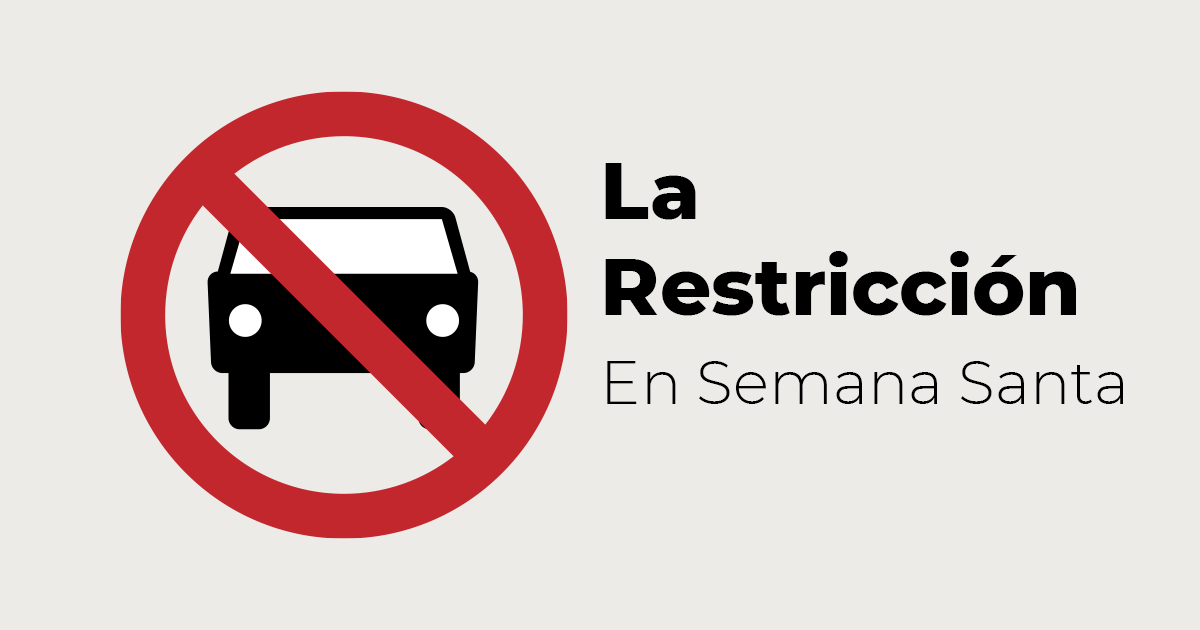
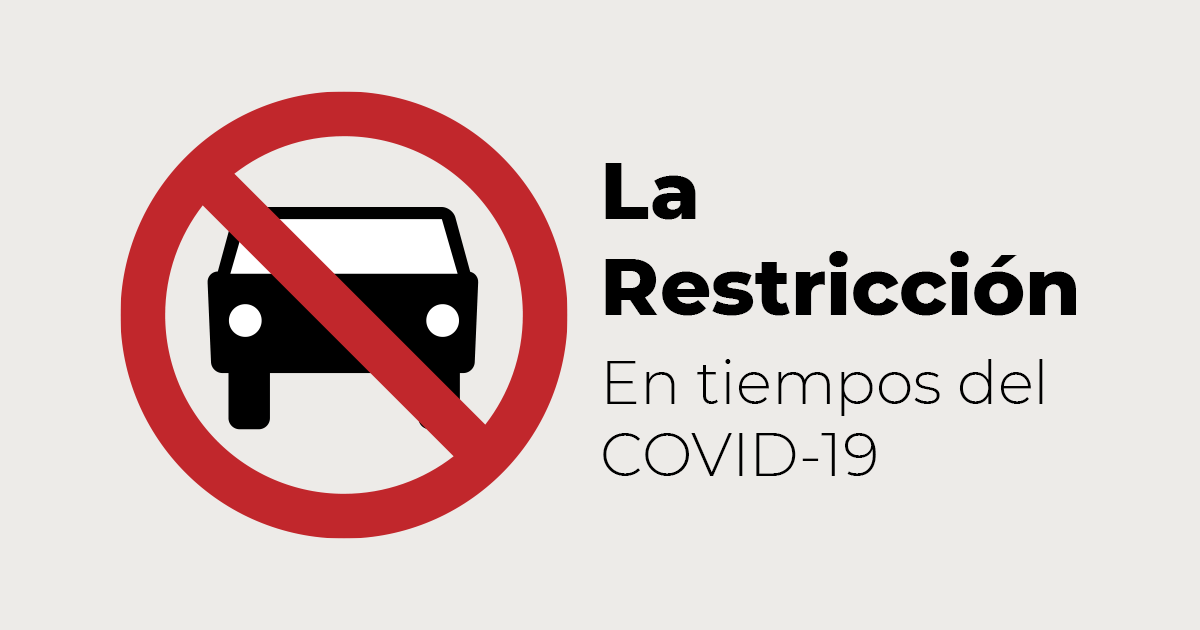
Cambio de semana santa a Abril

Changed region(s): [[0.4933, 0.573, 0.9558, 0.754]]

diff --git a/index.html b/index.html
@@ -6,7 +6,7 @@
 <title>La Restricción - Restricción vehicular sanitaria emitida por Costa Rica en semana santa</title>
 <meta property="og:title" content="La Restricción">
 <meta property="og:description" content="Restricción vehicular sanitaria emitida por Costa Rica en semana santa">
-<meta property="og:image" content="img/og.png">
+<meta property="og:image" content="/img/og.png">
 <meta property="og:image:width" content="1200" />
 <meta property="og:image:height" content="630" />
 <link rel="shortcut icon" href="/img/favicon.png">
@@ -15,8 +15,8 @@
 <link rel="apple-touch-icon" sizes="114x114" href="/img/touch-icon-iphone-retina.png">
 <link rel="apple-touch-icon" sizes="144x144" href="/img/touch-icon-ipad-retina.png">
 <link href="https://fonts.googleapis.com/css2?family=Montserrat:wght@400;800&display=swap" rel="stylesheet">
-<link rel="stylesheet" href="style.css?v=20200411">
-<script src="script.js?v=20200411"></script>
+<link rel="stylesheet" href="/style.css?v=20200411">
+<script src="/script.js?v=20200411"></script>
 <script async src="https://www.googletagmanager.com/gtag/js?id=UA-162545754-1"></script>
 <script data-ad-client="ca-pub-3818501550407815" async src="https://pagead2.googlesyndication.com/pagead/js/adsbygoogle.js"></script>
 <script>
@@ -69,7 +69,7 @@ gtag('config', 'UA-162545754-1');
 </div>
 <div class="container d-none" id="resultado">
 	<div class="row mt-3">
-		<div class="col-12 text-center"><h2>Nueva restricción del 13 al 30 de abril</h2></div>
+		<div class="col-12 text-center"><h2>Restricción del 13 al 30 de abril</h2></div>
 	</div>
 	<div class="row text-center" id="semana">
 		<div class="col">
@@ -124,27 +124,6 @@ gtag('config', 'UA-162545754-1');
 			</p>
 			<p>Aplica para <strong>TODO</strong> el territorio nacional.</p>
 			<p>Restricción vehicular <strong>NOCTURNA TOTAL</strong> será de 7 p.m. a 5 a.m (sólo circulan excepciones)</p>
-		</div>
-	</div>
-	<div class="row mt-5"><div class="col-12 text-center"><hr></div></div>
-	<div class="row mt-5"><div class="col-12 text-center"><h2>Restricción de Semana Santa</h2></div></div>
-	<div class="row">
-		<div class="col-sm-4 mb-4">
-			<h2 class="text-center">Cuando sí circula</h2>
-			<figure class="pl-5 pr-5"><img src="img/semaforo-verde.svg" alt="Sí circula" class="img-fluid"></figure>
-			<ul id="si_ul"></ul>
-			<small>Permitido únicamente de 5:00am a 5:00pm</small>
-		</div>
-		<div class="col-sm-4 mb-4">
-			<h2 class="text-center">Cuando medio circula</h2>
-			<figure class="pl-5 pr-5"><img src="img/semaforo-amarillo.svg" alt="Medio circula" class="img-fluid"></figure>
-			<ul id="medio_ul"></ul>
-			<small>Permitido únicamente para abasto y salud</small>
-		</div>
-		<div class="col-sm-4 mb-4">
-			<h2 class="text-center">Cuando no circula</h2>
-			<figure class="pl-5 pr-5"><img src="img/semaforo-rojo.svg" alt="No circula" class="img-fluid"></figure>
-			<ul id="no_ul"></ul>
 		</div>
 	</div>
 </div>

diff --git a/script.js b/script.js
@@ -1,78 +1,14 @@
 'use strict';
 
 var _now;
-var _d = [
-	{
-		'placa': 0,
-		'si': [5,7],
-		'medio': [8],
-		'no': [4,6,9,10,11,12]
-	},
-	{
-		'placa': 1,
-		'si': [4,6],
-		'medio': [8],
-		'no': [5,7,9,10,11,12]
-	},
-	{
-		'placa': 2,
-		'si': [5,7],
-		'medio': [9],
-		'no': [4,6,8,10,11,12]
-	},
-	{
-		'placa': 3,
-		'si': [4,6],
-		'medio': [9],
-		'no': [5,7,8,10,11,12]
-	},
-	{
-		'placa': 4,
-		'si': [5,7],
-		'medio': [10],
-		'no': [4,6,8,9,11,12]
-	},
-	{
-		'placa': 5,
-		'si': [4,6],
-		'medio': [10],
-		'no': [5,7,8,9,11,12]
-	},
-	{
-		'placa': 6,
-		'si': [5,7],
-		'medio': [11],
-		'no': [4,6,8,9,10,12]
-	},
-	{
-		'placa': 7,
-		'si': [4,6],
-		'medio': [11],
-		'no': [5,7,8,9,10,12]
-	},
-	{
-		'placa': 8,
-		'si': [5,7],
-		'medio': [12],
-		'no': [4,6,8,9,10,11]
-	},
-	{
-		'placa': 9,
-		'si': [4,6],
-		'medio': [12],
-		'no': [5,7,8,9,10,11]
-	}
-
-];
-var _day = ['Sábado', 'Domingo', 'Lunes', 'Martes', 'Miércoles', 'Jueves', 'Viernes', 'Sábado', 'Domingo'];
+var _day = ['Lunes', 'Martes', 'Miércoles', 'Jueves', 'Viernes', 'Sábado', 'Domingo'];
 
 function main() {
 	document.getElementById('placa').addEventListener('change',cambioPlaca,!1);
 }
 function cambioPlaca() {
 	var _s = document.getElementById('placa').value;
-
-	//console.log(Math.ceil(_s/2));
+	_now = new Date();
 
 	if(document.querySelector('.card.restricted-red') != null) {
 		document.querySelector('.card.restricted-red').classList.remove('restricted-red');
@@ -86,44 +22,8 @@ function cambioPlaca() {
 	}
 	document.querySelector('#semana .col:nth-child('+Math.ceil(_s/2)+') .card').classList.add('restricted-red');
 
+	document.getElementById('resultado').classList.remove('d-none');
 	
-	if(_s==10) {
-		_s = 0;
-	}
-	_now = new Date();
-
-	vaciarUL(document.getElementById('si_ul'));
-	vaciarUL(document.getElementById('medio_ul'));
-	vaciarUL(document.getElementById('no_ul'));
-
-	if(_s == -1) {
-		document.getElementById('resultado').classList.add('d-none');
-	} else {
-		document.getElementById('resultado').classList.remove('d-none');
-	}
-
-	//console.log(_d[_s].si)
-	poblarUL(document.getElementById('si_ul'),_d[_s].si);
-	poblarUL(document.getElementById('medio_ul'),_d[_s].medio);
-	poblarUL(document.getElementById('no_ul'),_d[_s].no);
-}
-function poblarUL(_ul,_datos) {
-	for(var i = 0; i < _datos.length; i++) {
-		var _str = (_day[_datos[i]-4])+' '+_datos[i]+' de abril';
-		//console.log(_now.getDate() == _datos[i],_datos[i])
-		if(_now.getDate() == _datos[i] && _now.getMonth() == 3 && _now.getFullYear() == 2020) {
-			_ul.appendChild( createCustomElement('li',{'class':'texto-resaltado'},[
-				createCustomElement('strong',{},[_str+' ⬅'])
-			]) );
-		} else {
-			_ul.appendChild( createCustomElement('li',{},[_str]) );
-		}
-	}
-}
-function vaciarUL(_sel) {
-	while( _sel.firstChild ){
-		_sel.removeChild( _sel.firstChild );
-	}
 }
 
 // https://github.com/escueladigital/EDui
